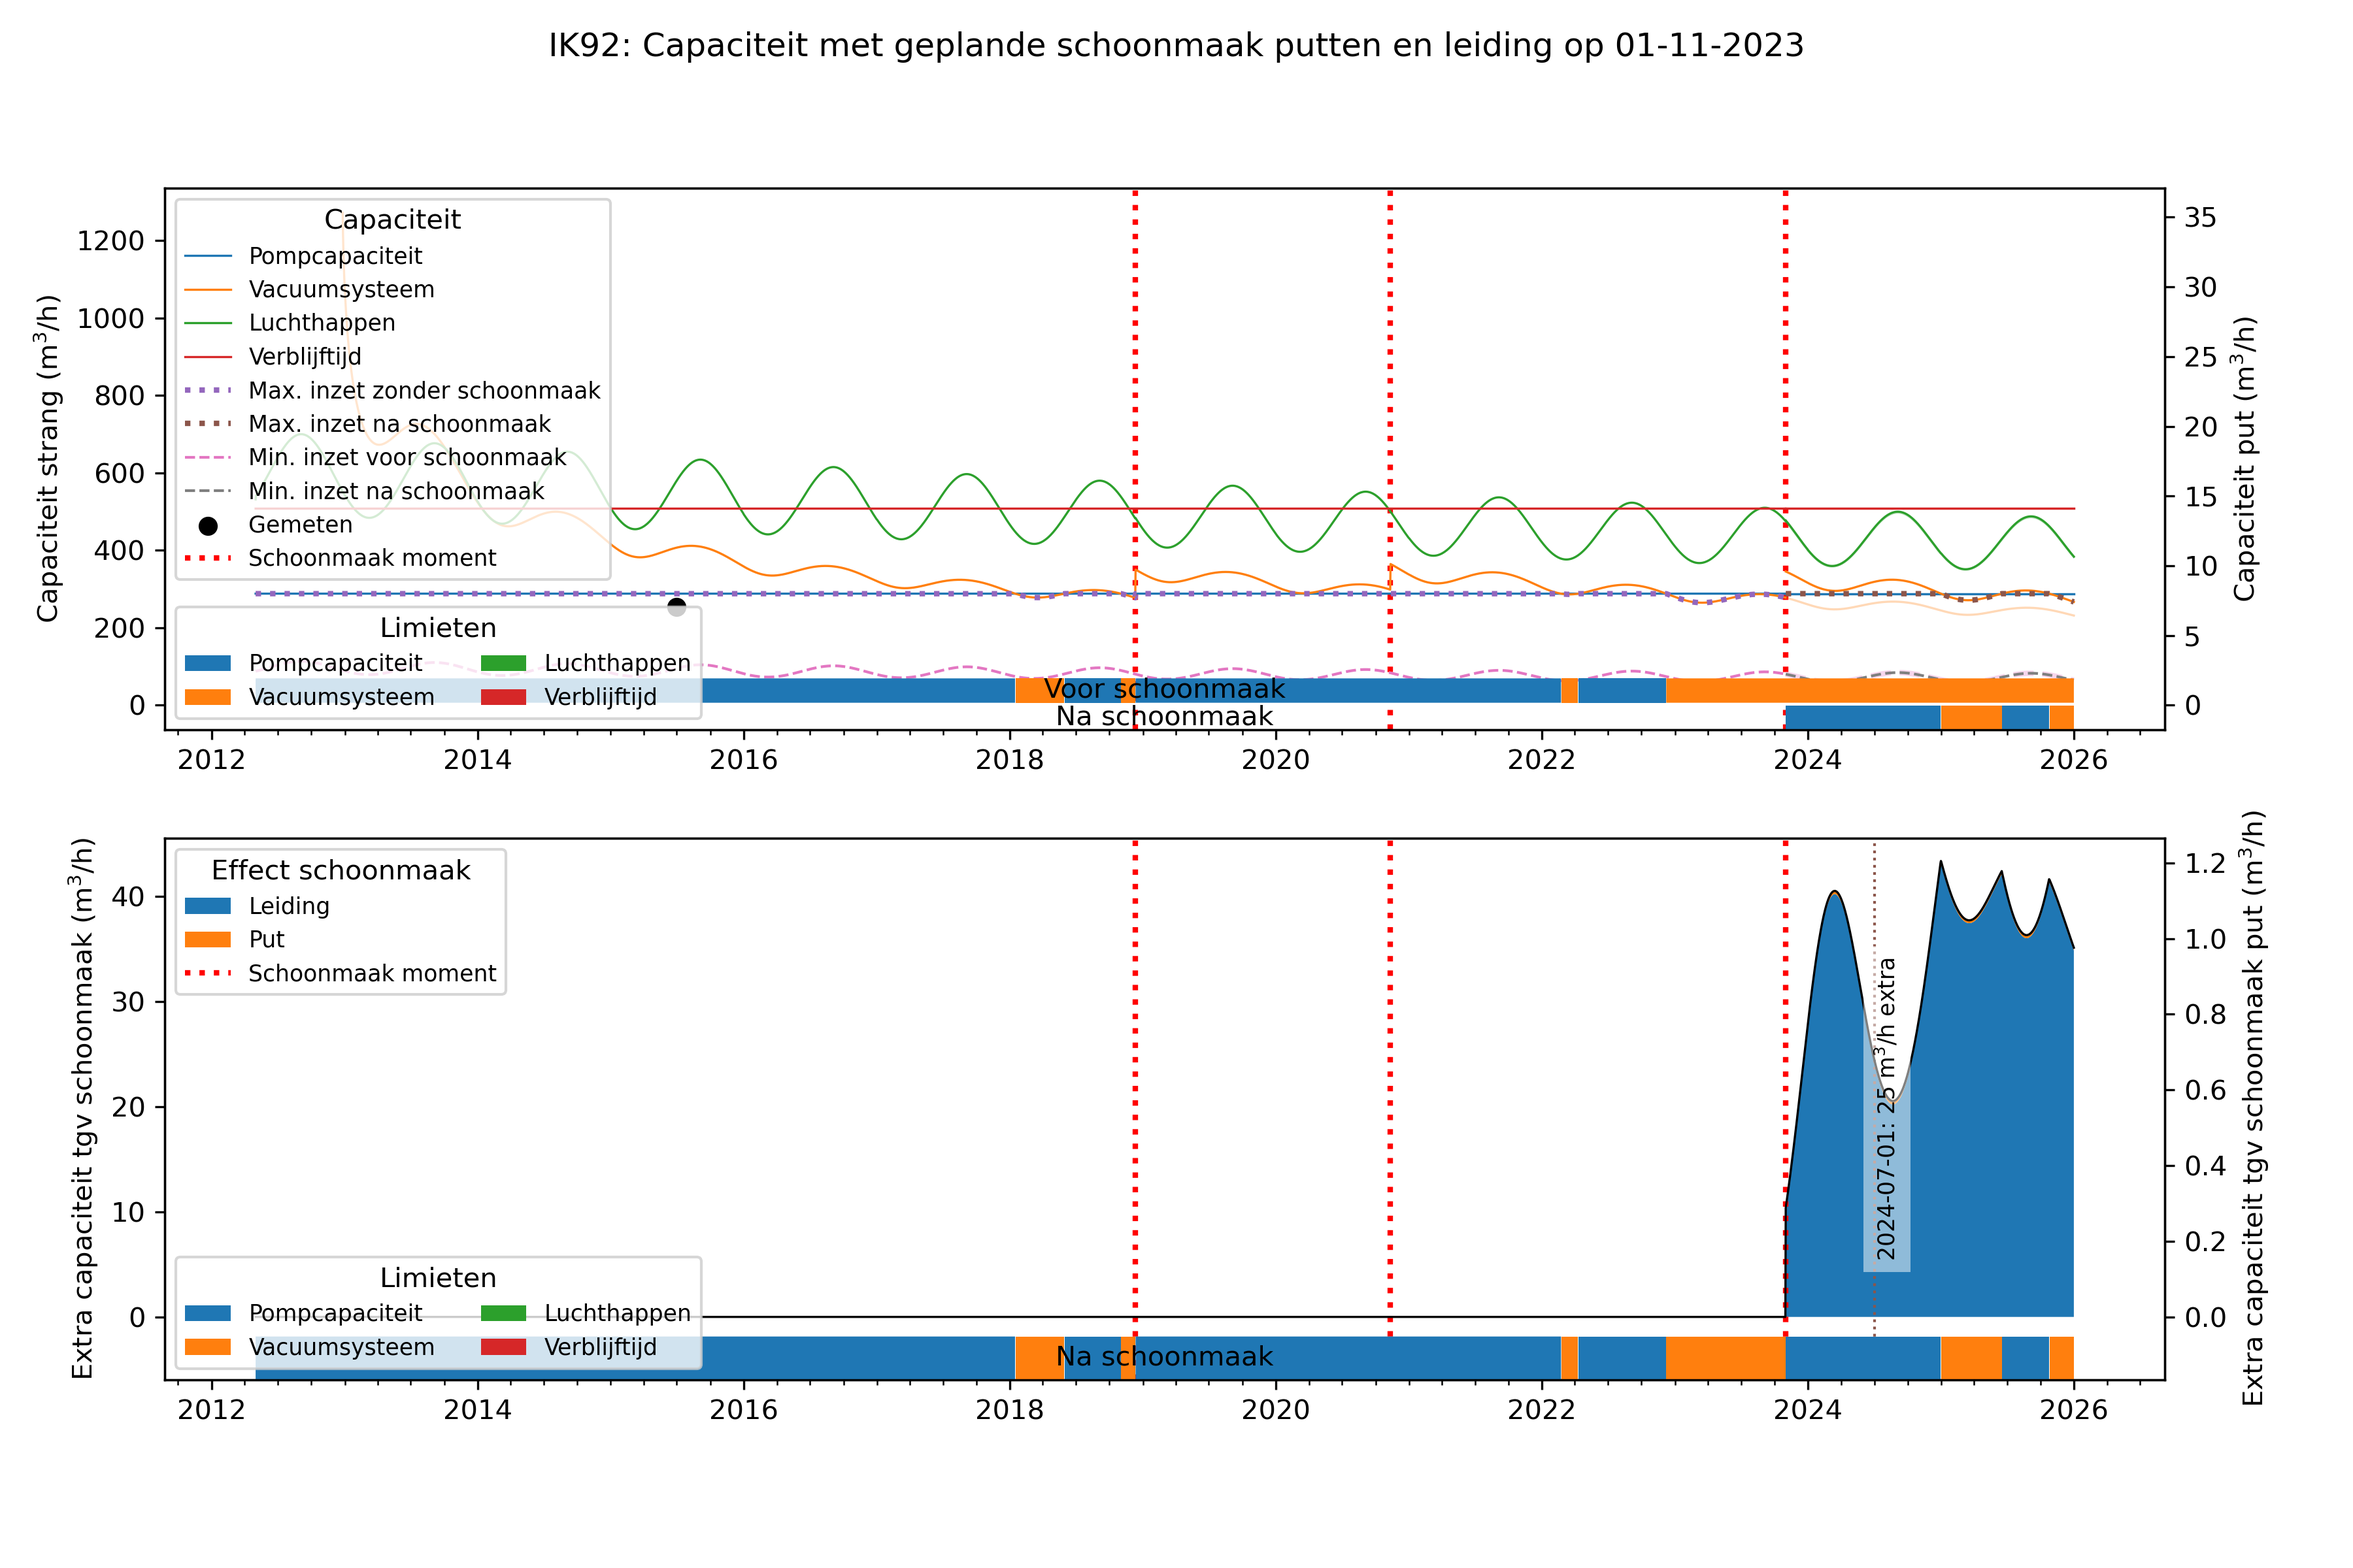
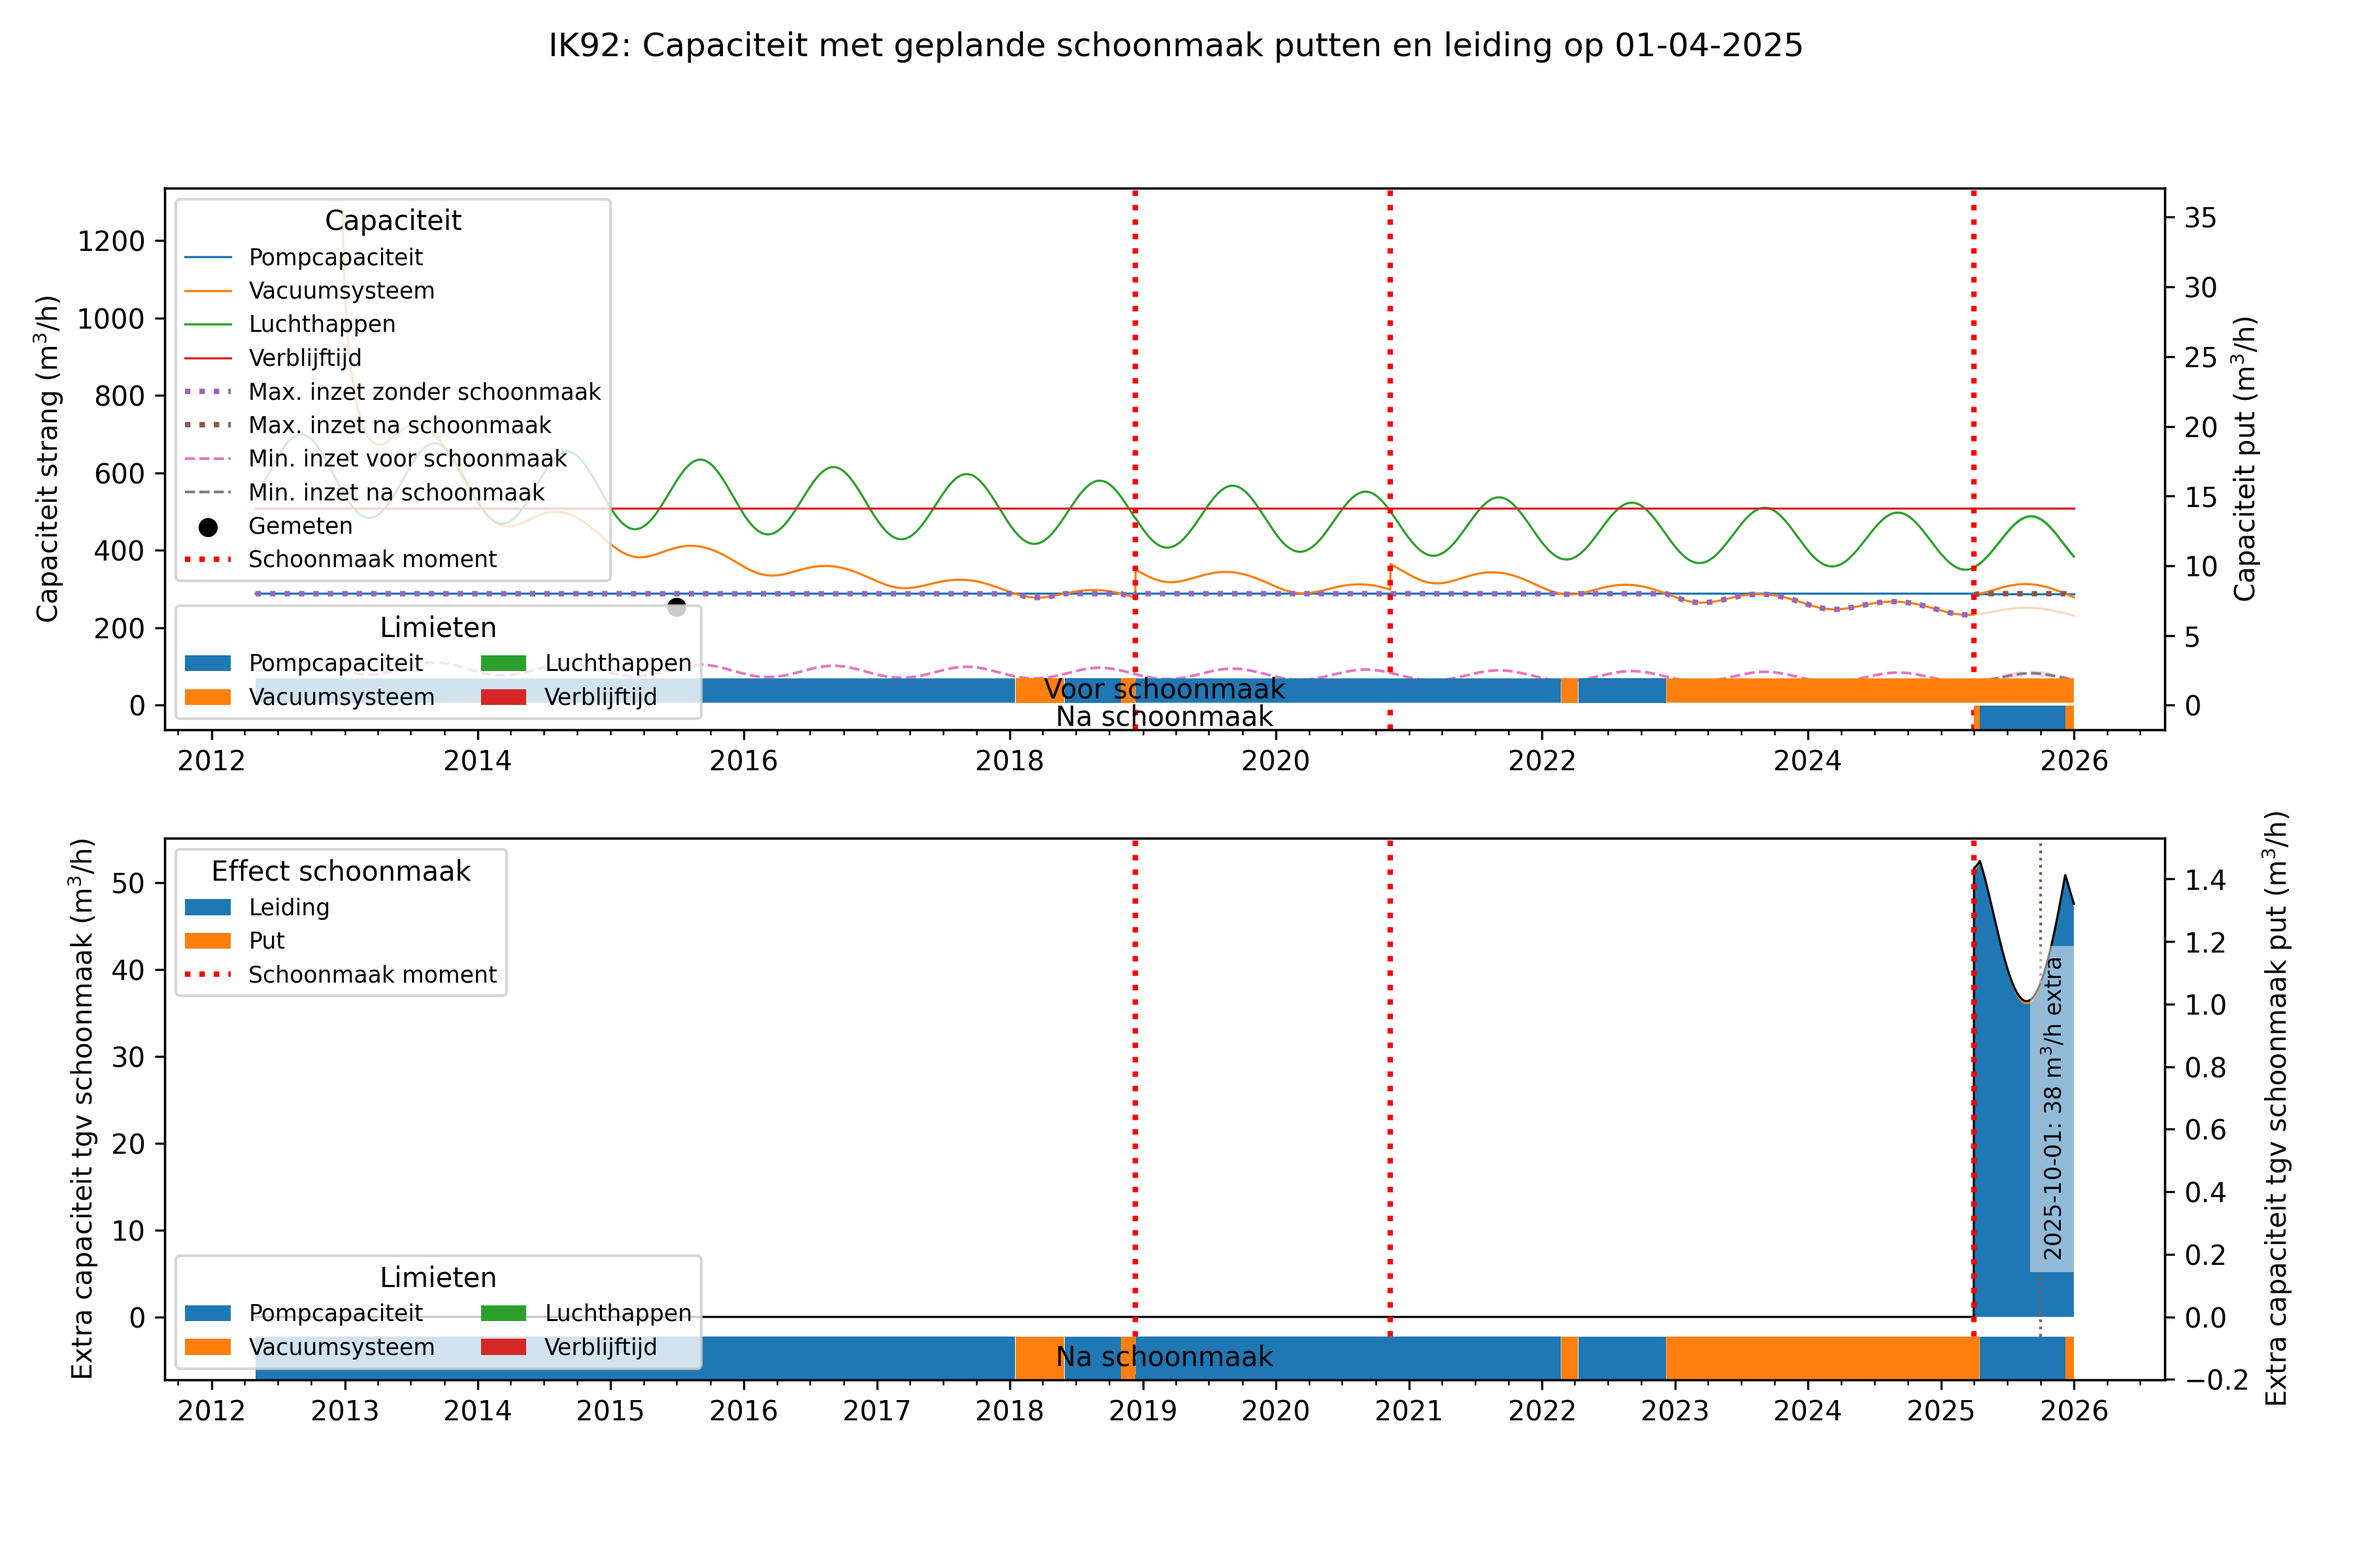
ICAS: rerun synthesis end of 2024

diff --git a/productiecapaciteit/reports/report_somrapport.py b/productiecapaciteit/reports/report_somrapport.py
@@ -1,32 +1,26 @@
-import logging
-import os
-
 import matplotlib.pyplot as plt
-import matplotlib.font_manager
 import pandas as pd
 
-from productiecapaciteit.src.strang_analyse_fun2 import get_config
+from productiecapaciteit import results_dir
 from productiecapaciteit.src.capaciteit_strang import strangWeerstand
+from productiecapaciteit.src.strang_analyse_fun2 import get_config
+from productiecapaciteit.src.weerstand_pandasaccessors import (
+    LeidingResistanceAccessor,  # noqa: F401
+    WellResistanceAccessor,  # noqa: F401
+    WvpResistanceAccessor,  # noqa: F401
+)
 
-from productiecapaciteit.src.weerstand_pandasaccessors import LeidingResistanceAccessor
-from productiecapaciteit.src.weerstand_pandasaccessors import WellResistanceAccessor
-from productiecapaciteit.src.weerstand_pandasaccessors import WvpResistanceAccessor
-
-res_folder = os.path.join("..", "results", "Synthese", "Capaciteit")
-
-data_fd = os.path.join("..", "Data")
-config_fn = "strang_props6.xlsx"
-config = get_config(os.path.join(data_fd, config_fn))
+config = get_config()
 config = config.loc[:, config.columns.notna()]
 
-filterweerstand_fp = os.path.join("..", "results", "Filterweerstand", "Filterweerstand_modelcoefficienten.xlsx")
-leidingweerstand_fp = os.path.join("..", "results", "Leidingweerstand", "Leidingweerstand_modelcoefficienten.xlsx")
-wvpweerstand_fp = os.path.join("..", "results", "Wvpweerstand", "Wvpweerstand_modelcoefficienten.xlsx")
+filterweerstand_fp = results_dir / "Filterweerstand" / "Filterweerstand_modelcoefficienten.xlsx"
+leidingweerstand_fp = results_dir / "Leidingweerstand" / "Leidingweerstand_modelcoefficienten.xlsx"
+wvpweerstand_fp = results_dir / "Wvpweerstand" / "Wvpweerstand_modelcoefficienten.xlsx"
 
-index = pd.date_range("2012-05-01", "2023-01-01")
+index = pd.date_range("2012-05-01", "2025-12-31")
 
-w_all = dict()
-w_offset = {k: dict() for k in [-3, -2, -1, 0, 1, 2, 3]}
+w_all = {}
+w_offset: dict[int, dict] = {k: {} for k in [-3, -2, -1, 0, 1, 2, 3]}
 
 for strang, c in config.iterrows():
     df_a_filter = pd.read_excel(filterweerstand_fp, sheet_name=strang, index_col=0)
@@ -42,17 +36,16 @@ for strang, c in config.iterrows():
 lims = pd.DataFrame({k: v.capaciteit(index) for k, v in w_all.items()})
 pd.DataFrame({k: v.capaciteit(index) for k, v in w_all.items()}).plot.area()
 
-fig_path = os.path.join(res_folder, f"Capaciteit Som - {strang}.png")
+fig_path = results_dir / "Synthese" / "Capaciteit" / "Capaciteit Som.png"
 plt.savefig(fig_path, dpi=300)
 
 """
 Effect opwarming
 """
 plt.style.use(["unhcrpyplotstyle", "line"])
-res_folder = os.path.join("..", "results", "Synthese", "Opwarming")
 
-lims_sum_dict = dict()
-lims_offset = dict()
+lims_sum_dict = {}
+lims_offset = {}
 for temp_opwarming, wi in w_offset.items():
     lims = pd.DataFrame({k: v.capaciteit(index) for k, v in wi.items()})
     lims_offset[temp_opwarming] = lims
@@ -71,18 +64,16 @@ ax.legend(loc=(0, 1), ncol=7)
 ax.set_ylabel("Toename in productiecap. (%)")
 fig.tight_layout()
 
-fig_path = os.path.join(res_folder, f"Effect opwarming.png")
+fig_path = results_dir / "Synthese" / "Opwarming" / "Effect opwarming.png"
 fig.savefig(fig_path, dpi=300)
-
 
 """
 Effect opwarming zoom
 """
 plt.style.use(["unhcrpyplotstyle", "line"])
-res_folder = os.path.join("..", "results", "Synthese", "Opwarming")
 
-lims_sum_dict = dict()
-lims_offset = dict()
+lims_sum_dict = {}
+lims_offset = {}
 for temp_opwarming, wi in w_offset.items():
     lims = pd.DataFrame({k: v.capaciteit(index) for k, v in wi.items()})
     lims_offset[temp_opwarming] = lims
@@ -102,27 +93,23 @@ ax.set_ylabel("Toename in productiecap. (%)")
 ax.set_xlim(("2021-01-01", "2022-01-01"))
 fig.tight_layout()
 
-fig_path = os.path.join(res_folder, f"Effect opwarming zoom.png")
+fig_path = results_dir / "Synthese" / "Opwarming" / "Effect opwarming zoom.png"
 fig.savefig(fig_path, dpi=300)
-
 
 """
 Effect opwarming zoom except pompcapaciteit
-
-            {
-                "Pompcapaciteit": self.Qpomp,
-                "Vacuumsysteem": self.lim_vac(index),
-                "Luchthappen": self.lim_luchthap(index),
-                "Verblijftijd": self.lim_verblijf(index),
-            }
-            
+{
+    "Pompcapaciteit": self.Qpomp,
+    "Vacuumsysteem": self.lim_vac(index),
+    "Luchthappen": self.lim_luchthap(index),
+    "Verblijftijd": self.lim_verblijf(index),
+}
 """
 plt.style.use(["unhcrpyplotstyle", "line"])
-res_folder = os.path.join("..", "results", "Synthese", "Opwarming")
 use_lims = ["Vacuumsysteem", "Luchthappen", "Verblijftijd"]
 
-lims_sum_dict = dict()
-lims_offset = dict()
+lims_sum_dict = {}
+lims_offset = {}
 for temp_opwarming, wi in w_offset.items():
     lims = pd.DataFrame({k: v.capaciteit(index, use_lims=use_lims) for k, v in wi.items()})
     lims_offset[temp_opwarming] = lims
@@ -142,8 +129,6 @@ ax.set_ylabel("Toename in productiecap. (%)")
 ax.set_xlim(("2021-01-01", "2022-01-01"))
 fig.tight_layout()
 
-fig_path = os.path.join(res_folder, f"Effect opwarming zoom - geen pomplimiet.png")
+fig_path = results_dir / "Synthese" / "Opwarming" / "Effect opwarming zoom - geen pomplimiet.png"
 fig.savefig(fig_path, dpi=300)
-
-
 print("hoi")

diff --git a/productiecapaciteit/reports/losses_rapport.py b/productiecapaciteit/reports/losses_rapport.py
@@ -1,18 +1,19 @@
 import logging
 import os
+
 import matplotlib.pyplot as plt
 import pandas as pd
+
+from productiecapaciteit import results_dir
 from productiecapaciteit.src.capaciteit_strang import strangWeerstand
 from productiecapaciteit.src.strang_analyse_fun2 import get_config
+from productiecapaciteit.src.weerstand_pandasaccessors import (
+    LeidingResistanceAccessor,  # noqa: F401
+    WellResistanceAccessor,  # noqa: F401
+    WvpResistanceAccessor,  # noqa: F401
+)
 
-from productiecapaciteit.src.weerstand_pandasaccessors import LeidingResistanceAccessor
-from productiecapaciteit.src.weerstand_pandasaccessors import WellResistanceAccessor
-from productiecapaciteit.src.weerstand_pandasaccessors import WvpResistanceAccessor
-
-res_folder = os.path.join("..", "results", "Synthese")
-logger_handler = logging.FileHandler(
-    os.path.join(res_folder, "Capaciteit_analyse.log"), mode="w"
-)  # , encoding='utf-8', level=logging.DEBUG)
+logger_handler = logging.FileHandler(results_dir / "Synthese" / "Capaciteit_analyse.log", mode="w")
 stdout = logging.StreamHandler()
 logging.basicConfig(
     level=logging.INFO,
@@ -29,18 +30,15 @@ gridspec_kw = {
     "hspace": 0.2,
 }
 
-data_fd = os.path.join("..", "data")
-config_fn = "strang_props6.xlsx"
-config = get_config(os.path.join(data_fd, config_fn))
+config = get_config()
 config = config.loc[:, config.columns.notna()]
 
-filterweerstand_fp = os.path.join("..", "results", "Filterweerstand", "Filterweerstand_modelcoefficienten.xlsx")
-leidingweerstand_fp = os.path.join("..", "results", "Leidingweerstand", "Leidingweerstand_modelcoefficienten.xlsx")
-wvpweerstand_fp = os.path.join("..", "results", "Wvpweerstand", "Wvpweerstand_modelcoefficienten.xlsx")
+filterweerstand_fp = results_dir / "Filterweerstand" / "Filterweerstand_modelcoefficienten.xlsx"
+leidingweerstand_fp = results_dir / "Leidingweerstand" / "Leidingweerstand_modelcoefficienten.xlsx"
+wvpweerstand_fp = results_dir / "Wvpweerstand" / "Wvpweerstand_modelcoefficienten.xlsx"
 
 index = pd.date_range("2012-05-01", "2025-12-31")
-date_goal = pd.Timestamp("2024-07-01")
-
+date_goal = pd.Timestamp("2025-10-01")
 
 for strang, c in config.iterrows():
     # if strang != "IK95":
@@ -51,7 +49,7 @@ for strang, c in config.iterrows():
     df_a_wvp = pd.read_excel(wvpweerstand_fp, sheet_name=strang, index_col=0).squeeze("columns")
 
     weerstand = strangWeerstand(df_a_leiding, df_a_filter, df_a_wvp, **c.to_dict())
-    date_clean = "2023-11-01"
+    date_clean = "2025-04-01"
 
     fig, (ax0, ax1) = plt.subplots(2, 1, figsize=(12, 8), gridspec_kw=gridspec_kw)
     fig.suptitle(
@@ -62,7 +60,7 @@ for strang, c in config.iterrows():
     weerstand.plot_lims(index, date_clean, ax=ax0)
     weerstand.plot_capaciteit_effect_schoonmaak(date_clean, index, date_goal, ax=ax1)
 
-    fig_path = os.path.join(res_folder, f"Capaciteit - {strang}.png")
+    fig_path = results_dir / "Synthese" / f"Capaciteit - {strang}.png"
     fig.savefig(fig_path, dpi=300)
     logging.info(f"Saved capaciteit result to {fig_path}")
 
